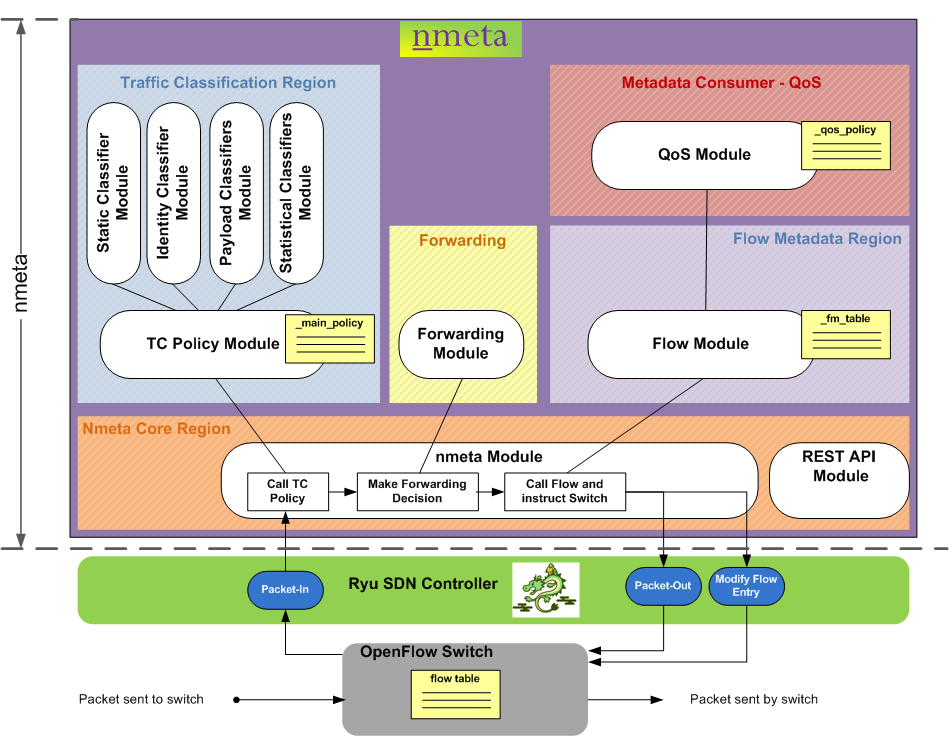
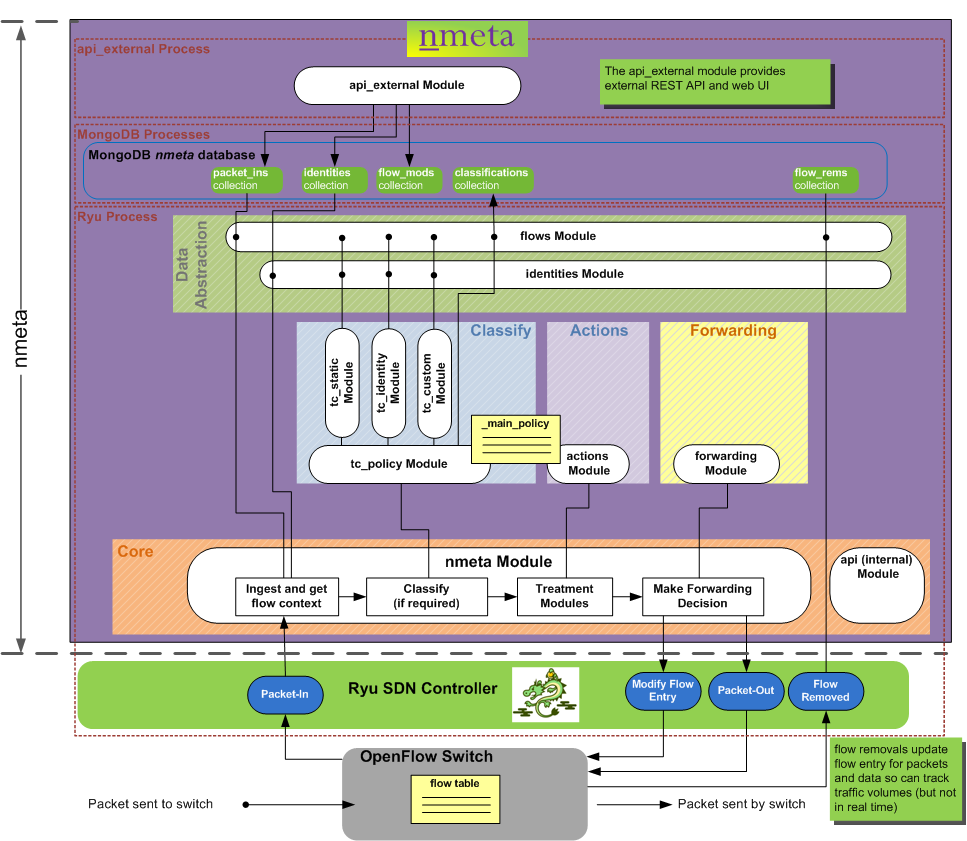
Added images to doc Added sample statistical classifier (doesn't work yet)

diff --git a/nmeta/classifiers/statistical_qos_bandwidth_1.py b/nmeta/classifiers/statistical_qos_bandwidth_1.py
@@ -1,0 +1,93 @@
+# Licensed under the Apache License, Version 2.0 (the "License");
+# you may not use this file except in compliance with the License.
+# You may obtain a copy of the License at
+#
+#    http://www.apache.org/licenses/LICENSE-2.0
+#
+# Unless required by applicable law or agreed to in writing, software
+# distributed under the License is distributed on an "AS IS" BASIS,
+# WITHOUT WARRANTIES OR CONDITIONS OF ANY KIND, either express or
+# implied.
+# See the License for the specific language governing permissions and
+# limitations under the License.
+
+"""
+This module is part of the nmeta suite
+.
+It defines a custom traffic classifier
+.
+To create your own custom classifier, copy this example to a new
+file in the same directory and update the code as required.
+Call it from nmeta by specifying the name of the file (without the
+.py) in main_policy.yaml
+.
+Classifiers are called per packet, so performance is important
+.
+"""
+
+class Classifier(object):
+    """
+    A custom classifier module for import by nmeta
+    """
+    def __init__(self, logger):
+        """
+        Initialise the classifier
+        """
+        self.logger = logger
+
+    def classifier(self, flow):
+        """
+        A really basic statistical classifier to demonstrate ability
+        to differentiate 'bandwidth hog' flows from ones that are
+        more interactive so that appropriate classification metadata
+        can be passed to QoS for differential treatment.
+        .
+        This method is passed a Flow class object that holds the
+        current context of the flow
+        .
+        It returns a dictionary specifying a key/value of QoS treatment to
+        take (or not if no classification determination made).
+        .
+        Only works on TCP.
+        """
+        #*** Maximum packets to accumulate in a flow before making a
+        #***  classification:
+        _max_packets = 7
+        #*** Thresholds used in calculations:
+        _max_packet_size_threshold = 1200
+        _interpacket_ratio_threshold = 0.3
+
+        #*** Dictionary to hold classification results:
+        _results = {}
+
+        if flow.packet_count >= _max_packets and not flow.finalised:
+            #*** Reached our maximum packet count so do some classification:
+            self.logger.debug("Reached max packets count, finalising")
+            flow.finalised = 1
+
+            #*** Call functions to get statistics to make decisions on:
+            _max_packet_size = flow.max_packet_size()
+            _max_interpacket_interval = flow.max_interpacket_interval()
+            _min_interpacket_interval = flow.min_interpacket_interval()
+
+            #*** Avoid possible divide by zero error:
+            if _max_interpacket_interval and _min_interpacket_interval:
+                #*** Ratio between largest directional interpacket delta and
+                #***  smallest. Use a ratio as it accounts for base RTT:
+                _interpacket_ratio = float(_min_interpacket_interval) / \
+                                            float(_max_interpacket_interval)
+            else:
+                _interpacket_ratio = 0
+            self.logger.debug("max_packet_size=%s interpacket_ratio=%s",
+                        _max_packet_size, _interpacket_ratio)
+            #*** Decide actions based on the statistics:
+            if (_max_packet_size > _max_packet_size_threshold and
+                            _interpacket_ratio < _interpacket_ratio_threshold):
+                #*** This traffic looks like a bandwidth hog so constrain it:
+                _results['qos_treatment'] = 'constrained_bw'
+            else:
+                #*** Doesn't look like bandwidth hog so default priority:
+                _results['qos_treatment'] = 'default_priority'
+            self.logger.debug("Decided on results %s", _results)
+
+        return _results

diff --git a/docs/source/datastructures.rst b/docs/source/datastructures.rst
@@ -9,23 +9,40 @@ Information Abstractions
 Flows Abstraction
 =================
 
-TBD
+The flows object provides an abstraction of flows (conversations) that
+have been seen on the network. It defaults to the context of the flow
+that the last packet ingested belongs to.
+
+.. image:: images/flows_abstraction.png
+
+Classifiers can make use of the flows object to gain easy access to
+features of the current flow.
 
 Identities Abstraction
 ======================
 
-TBD
+The identities object provides an abstraction for participants (identities)
+that are known to nmeta. Classifiers can use the identities object to
+look up the identity information of participants.
 
 ********************
 Database Collections
 ********************
 
+Nmeta uses capped MongoDB database collections to obviate the need
+to maintain size by pruning old entries.
+
+
 Packet-Ins
 ==========
+
+MongoDB Collection: packet_ins
 
 .. image:: images/data_struct_packet_ins.png
 
 Identity Metadata
 =================
+
+MongoDB Collection: identities
 
 .. image:: images/data_struct_identities.png
